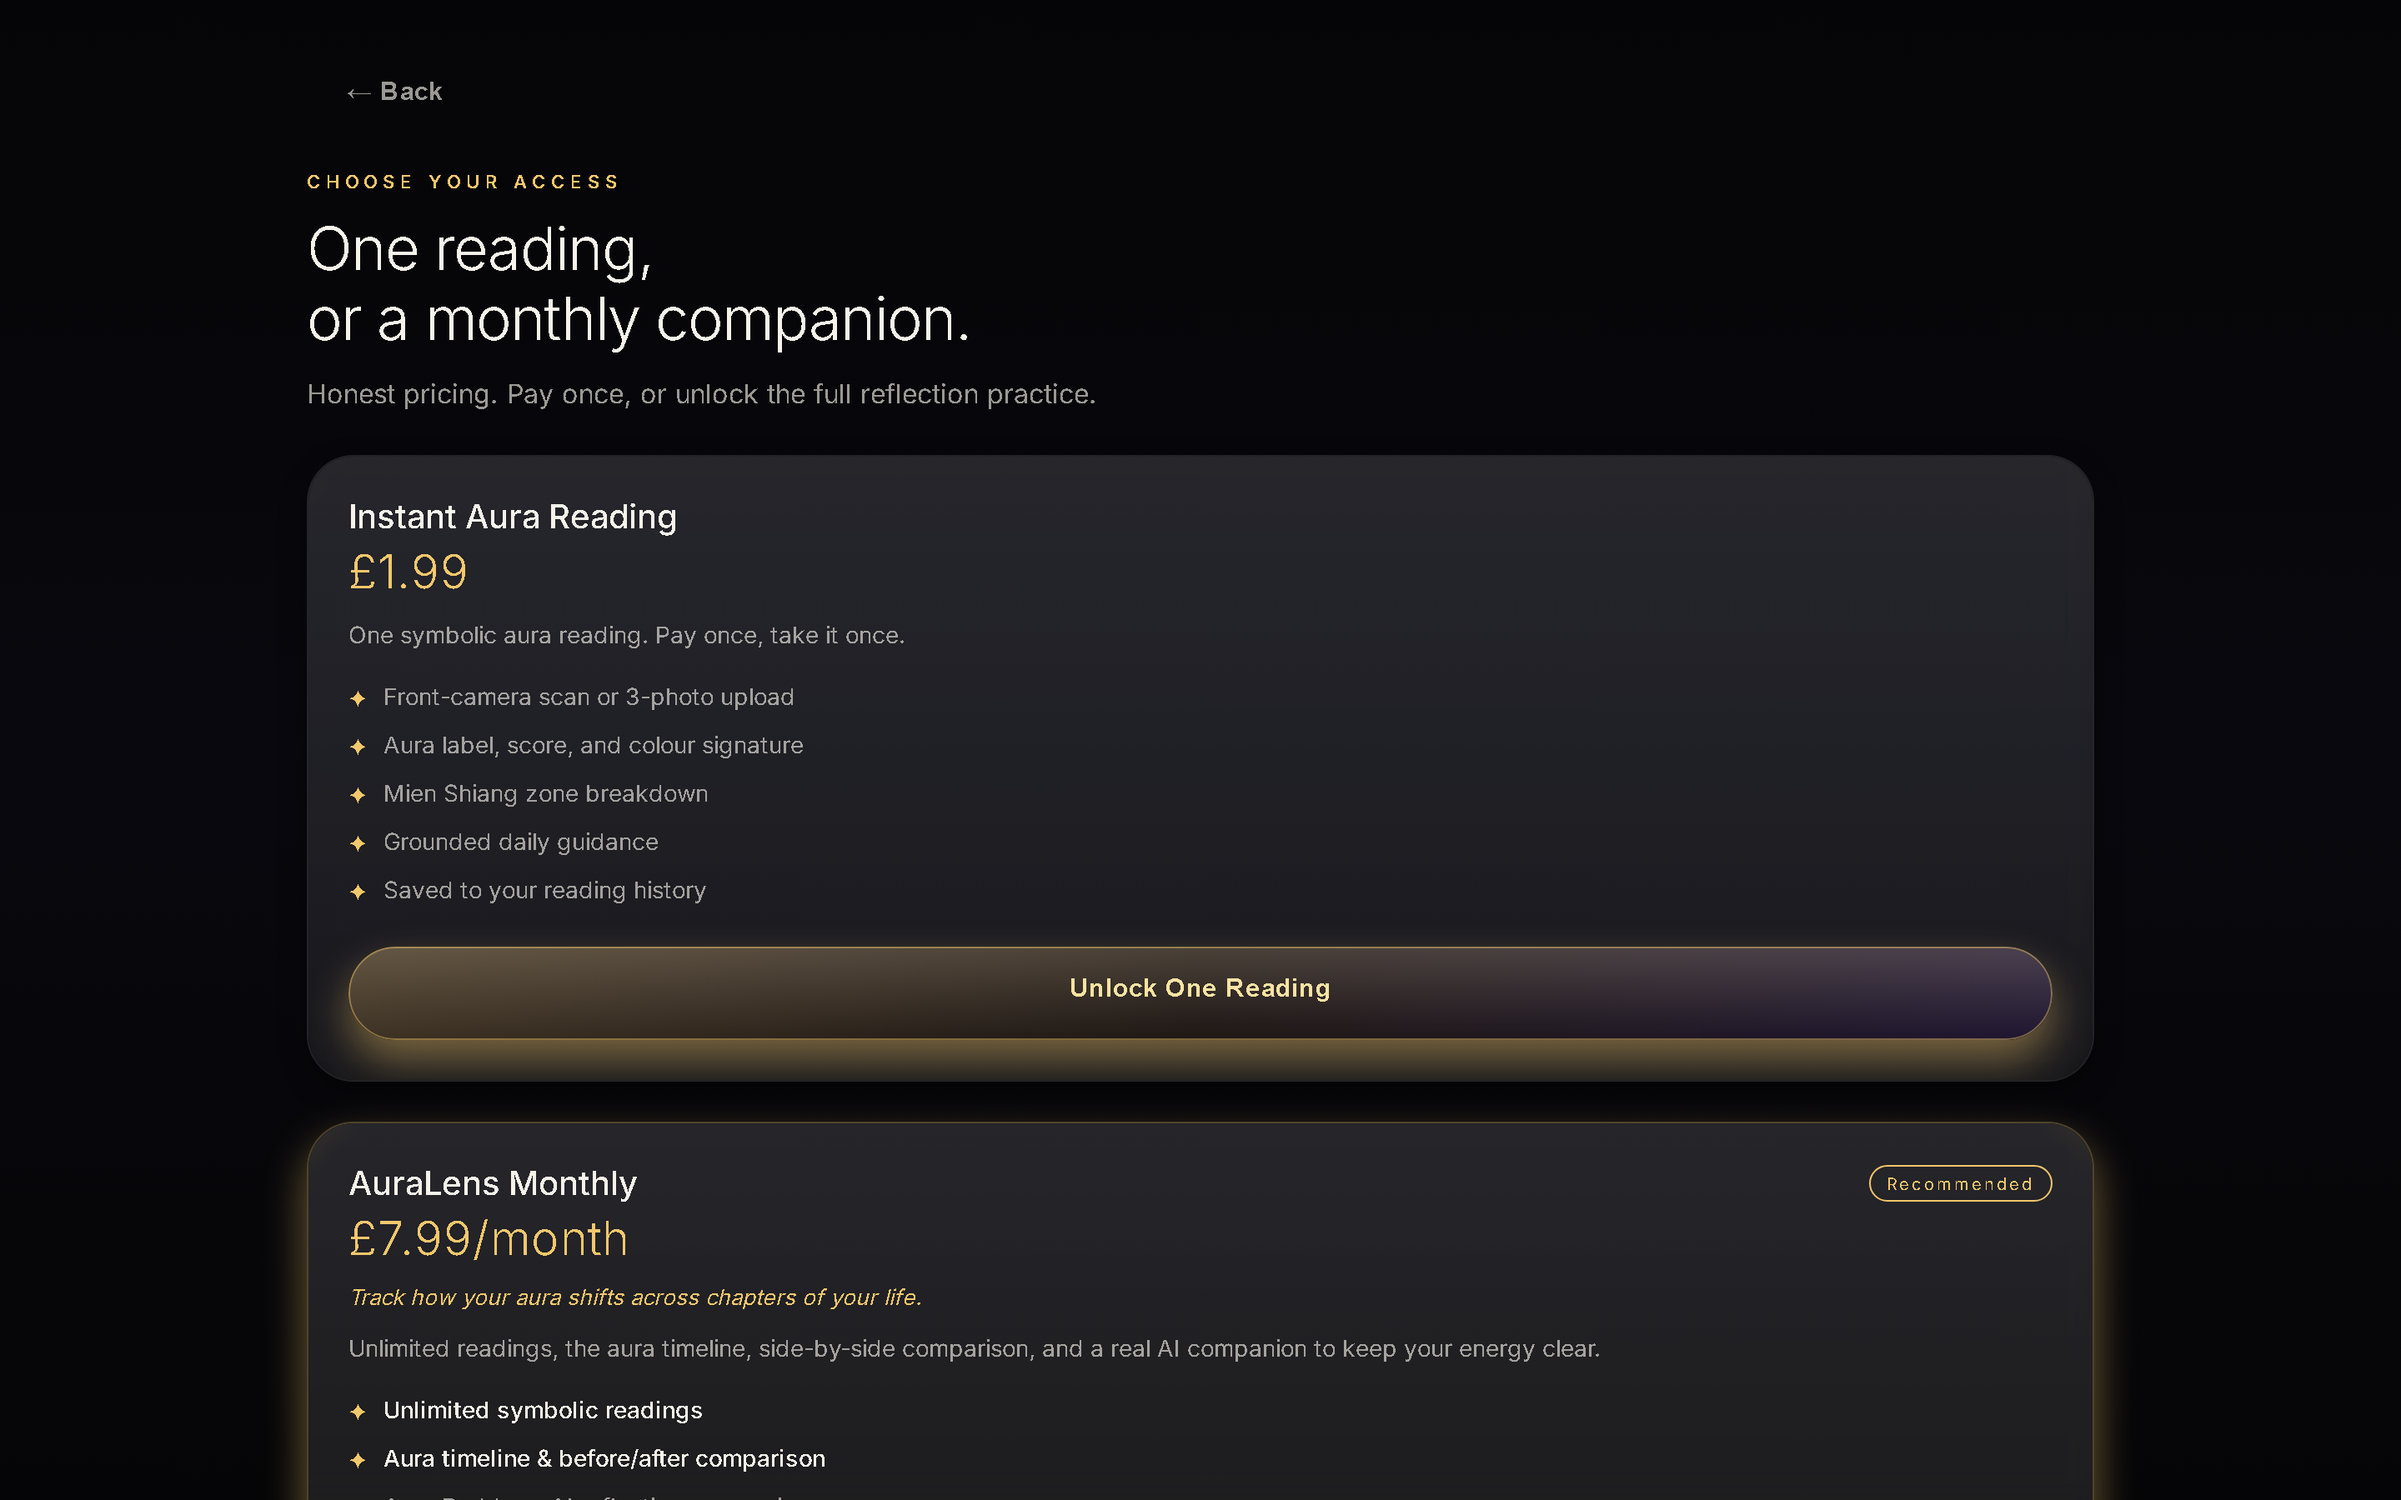
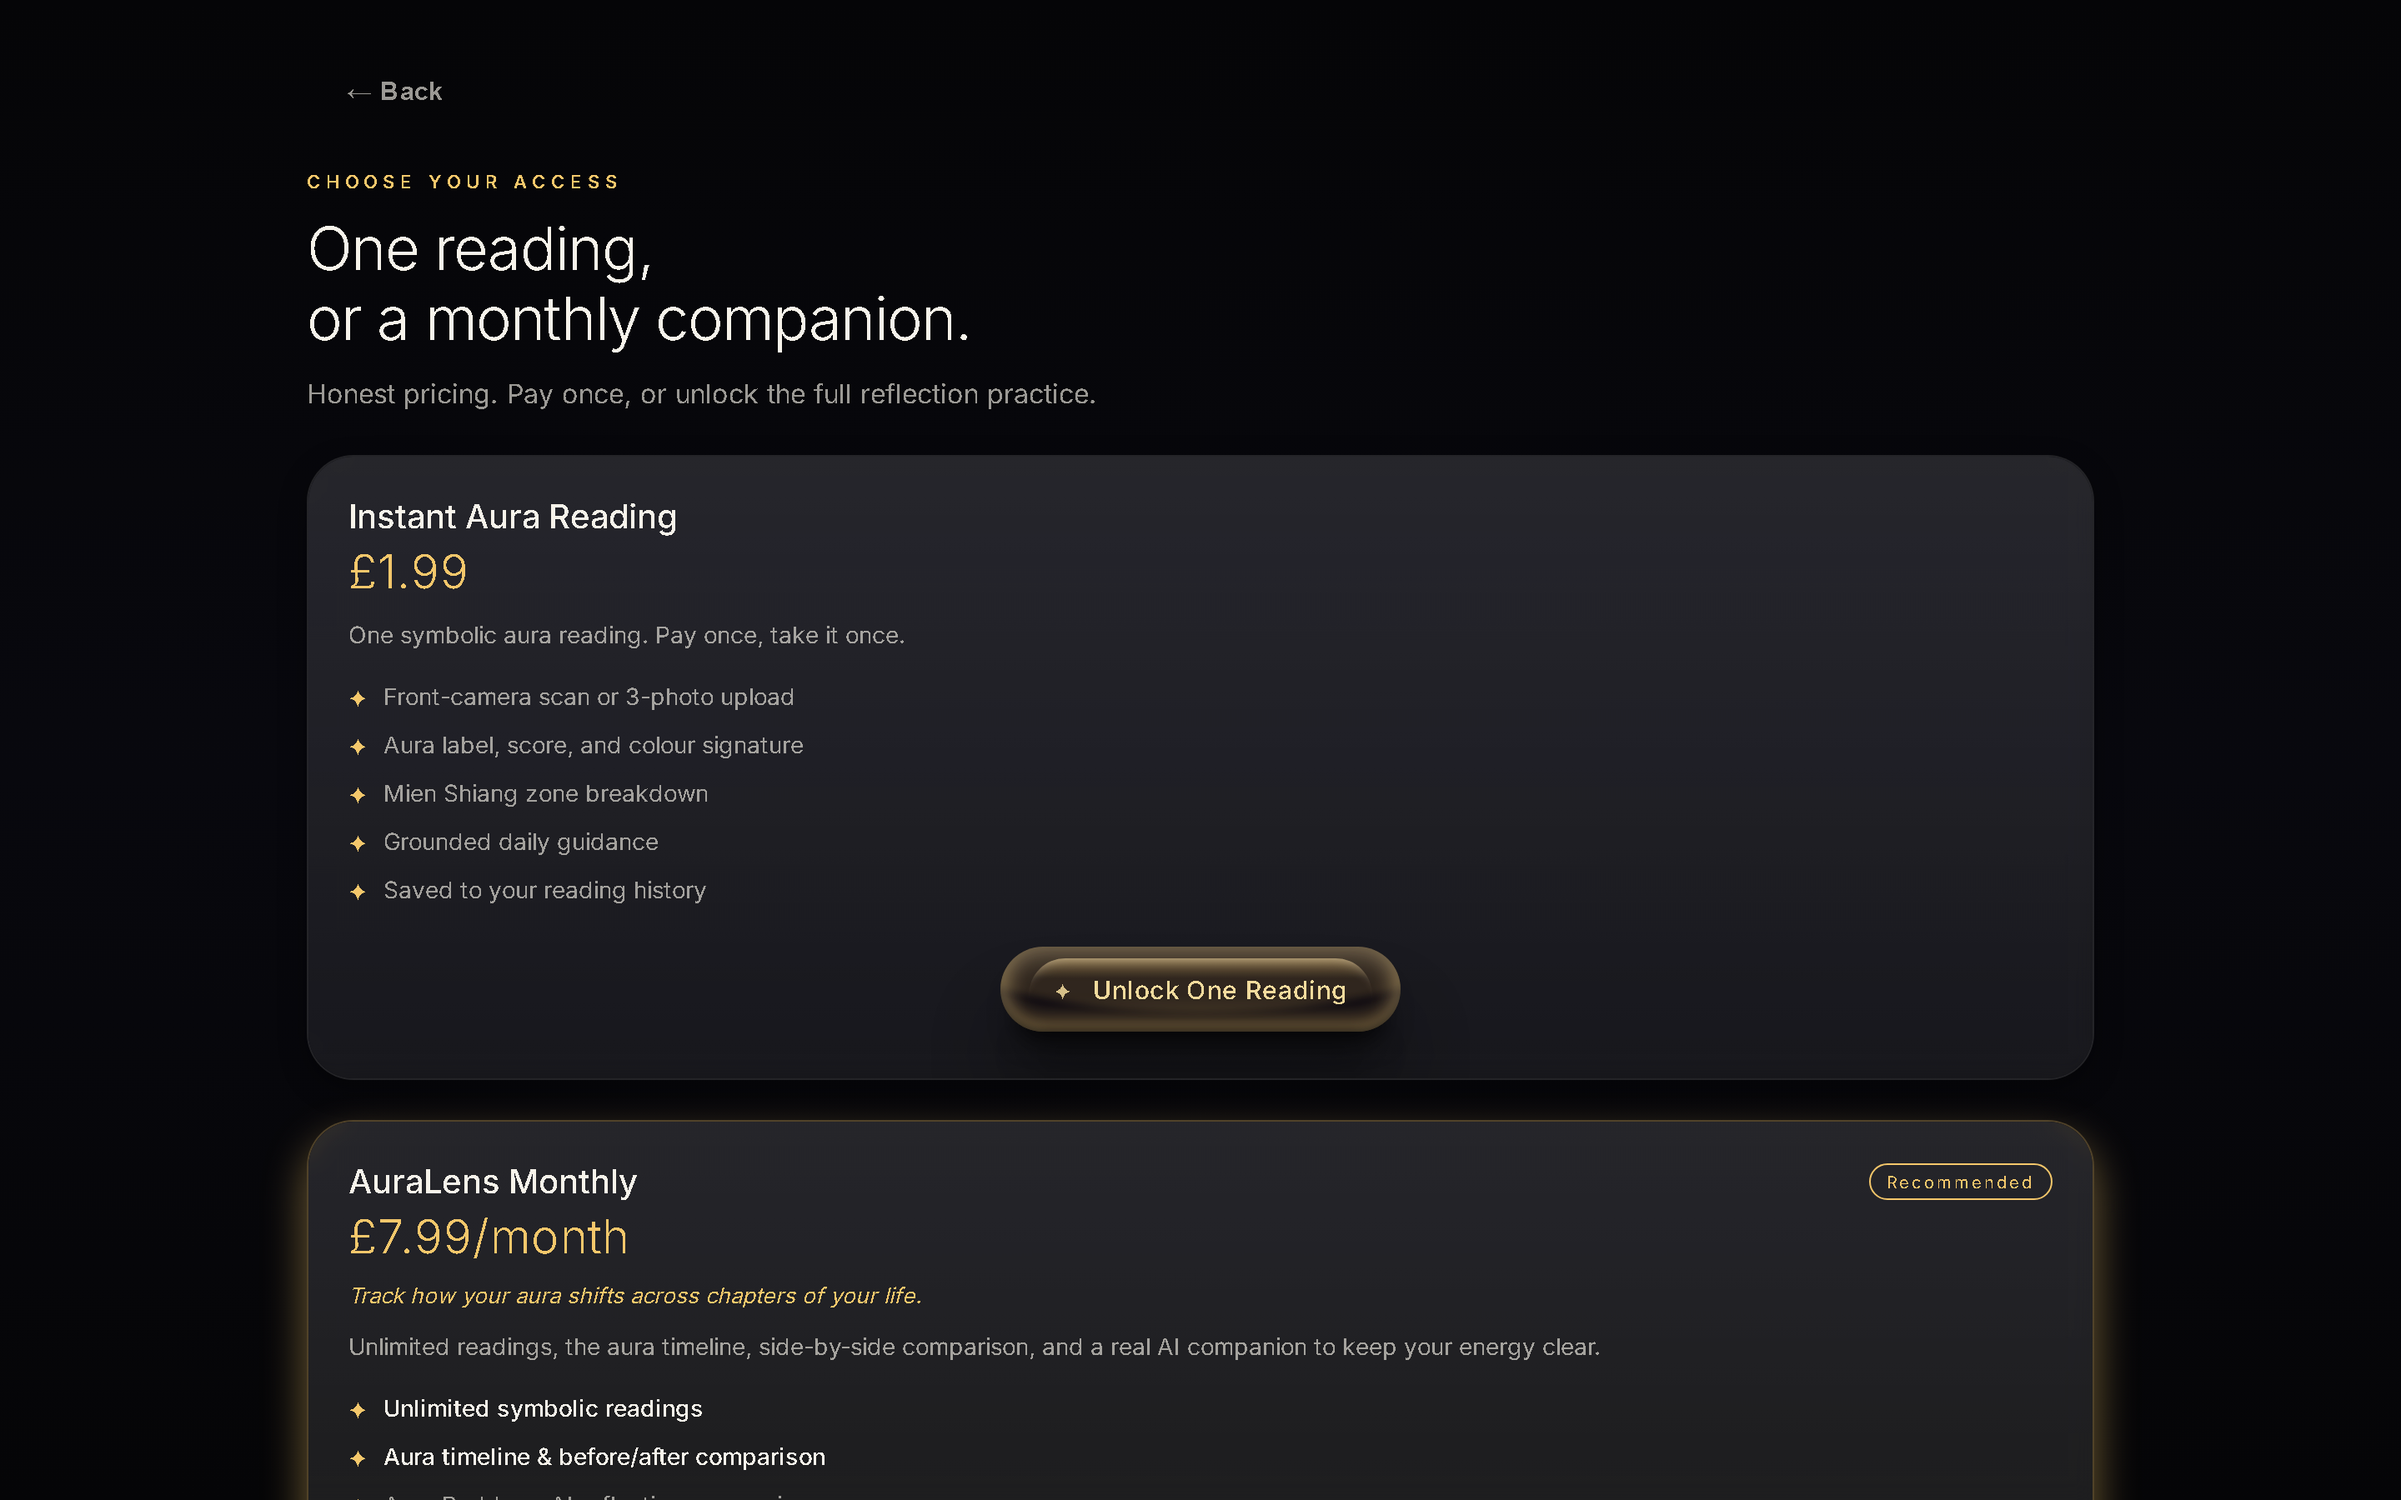
Stardust treatment on EVERY web button variant: gold/silver/ghost/danger via CSS vars

diff --git a/components/PremiumButton.tsx b/components/PremiumButton.tsx
@@ -139,20 +139,25 @@ export function PremiumButton({
     );
   };
 
-  // ── PRIMARY · WEB ───────────────────────────────────────────────────────
-  // Stardust-style real HTML <button> with proper inset shadows, pseudo-
-  // element highlights, hover specular, and active compression. Aura gold
-  // on obsidian palette. CSS lives in a one-time <style> tag (id keeps it
-  // dedupable across many button instances).
-  if (variant === 'primary' && Platform.OS === 'web') {
-    const sizePx = size === 'lg' ? '20px 38px' : size === 'sm' ? '12px 24px' : '16px 32px';
+  // ── WEB · STARDUST (every variant) ──────────────────────────────────────
+  // Single HTML <button> shape with a variant modifier class. Same depth +
+  // inset + pseudo specular for all variants — only the colour palette
+  // differs. CSS lives once in <style id="auralens-stardust-css">.
+  if (Platform.OS === 'web' && variant !== 'subtle') {
+    const sizePx = size === 'lg' ? '20px 38px' : size === 'sm' ? '12px 22px' : '16px 32px';
     const fontPx = size === 'lg' ? 18 : size === 'sm' ? 13 : 15;
+    const modifier =
+      variant === 'primary'   ? 'auralens-stardust--gold'   :
+      variant === 'secondary' ? 'auralens-stardust--silver' :
+      variant === 'ghost'     ? 'auralens-stardust--ghost'  :
+      variant === 'danger'    ? 'auralens-stardust--danger' :
+                                'auralens-stardust--silver';
+    const showGlyph = variant === 'primary';
     return (
       <>
         <AuralensStardustCSS />
-        {/* eslint-disable-next-line react/no-unknown-property */}
         {React.createElement('button' as any, {
-          className: 'auralens-stardust',
+          className: `auralens-stardust ${modifier}`,
           onClick: handlePress,
           disabled: inactive,
           'aria-label': a11y.accessibilityLabel,
@@ -167,12 +172,13 @@ export function PremiumButton({
             opacity: inactive ? 0.45 : 1,
             width: fullWidth ? '100%' : 'auto',
             display: 'inline-block',
+            margin: 0,
           },
         }, React.createElement('span', { className: 'auralens-stardust__shell' },
           React.createElement('span', { className: 'auralens-stardust__wrap' },
             React.createElement('span', { className: 'auralens-stardust__label', style: { fontSize: fontPx, padding: sizePx } },
-              React.createElement('span', { className: 'auralens-stardust__glyph', 'aria-hidden': true }, '✦'),
-              React.createElement('span', { className: 'auralens-stardust__glyph auralens-stardust__glyph--hover', 'aria-hidden': true }, '✧'),
+              showGlyph ? React.createElement('span', { className: 'auralens-stardust__glyph', 'aria-hidden': true }, '✦') : null,
+              showGlyph ? React.createElement('span', { className: 'auralens-stardust__glyph auralens-stardust__glyph--hover', 'aria-hidden': true }, '✧') : null,
               loading ? React.createElement('span', null, '…') : label,
             ),
           ),
@@ -393,19 +399,75 @@ const AURALENS_STARDUST_CSS = `
   -webkit-tap-highlight-color: transparent;
 }
 .auralens-stardust__shell {
+  /* CSS variables defaulted here, overridden per modifier */
   --bg: #0b0810;
   --ink: rgba(251, 227, 162, 0.96);
+  --hi: rgba(255, 235, 200, 0.30);
+  --core: rgba(244, 199, 107, 0.45);
+  --hi-hover: rgba(255, 235, 200, 0.42);
+  --core-hover: rgba(244, 199, 107, 0.65);
+  --halo: rgba(244, 199, 107, 0.16);
+  --halo-hover: rgba(244, 199, 107, 0.22);
+  --top-grad-1: rgba(244, 199, 107, 0.32);
   display: inline-block;
   position: relative;
   border-radius: 999px;
   background-color: var(--bg);
   transition: transform 0.2s ease, box-shadow 0.3s ease;
   box-shadow:
-    inset 0 0.35rem 0.9rem rgba(255, 235, 200, 0.30),
+    inset 0 0.35rem 0.9rem var(--hi),
     inset 0 -0.1rem 0.3rem rgba(0, 0, 0, 0.70),
-    inset 0 -0.45rem 0.9rem rgba(244, 199, 107, 0.45),
+    inset 0 -0.45rem 0.9rem var(--core),
     0 2.4rem 2.6rem rgba(0, 0, 0, 0.35),
     0 0.9rem 1rem -0.6rem rgba(0, 0, 0, 0.80);
+}
+
+/* Gold (primary) — default tokens above already match */
+
+/* Silver / cool (secondary) */
+.auralens-stardust--silver .auralens-stardust__shell {
+  --bg: #0a0a14;
+  --ink: rgba(247, 243, 234, 0.95);
+  --hi: rgba(255, 255, 255, 0.20);
+  --core: rgba(155, 108, 255, 0.32);
+  --hi-hover: rgba(255, 255, 255, 0.32);
+  --core-hover: rgba(155, 108, 255, 0.50);
+  --halo: rgba(155, 108, 255, 0.16);
+  --halo-hover: rgba(155, 108, 255, 0.24);
+  --top-grad-1: rgba(255, 255, 255, 0.22);
+}
+
+/* Ghost — quieter, less depth */
+.auralens-stardust--ghost .auralens-stardust__shell {
+  --bg: rgba(10, 10, 16, 0.55);
+  --ink: rgba(247, 243, 234, 0.85);
+  --hi: rgba(255, 255, 255, 0.10);
+  --core: rgba(155, 108, 255, 0.16);
+  --hi-hover: rgba(255, 255, 255, 0.20);
+  --core-hover: rgba(155, 108, 255, 0.28);
+  --halo: rgba(255, 255, 255, 0.06);
+  --halo-hover: rgba(255, 255, 255, 0.12);
+  --top-grad-1: rgba(255, 255, 255, 0.12);
+}
+.auralens-stardust--ghost .auralens-stardust__shell {
+  box-shadow:
+    inset 0 0.20rem 0.6rem var(--hi),
+    inset 0 -0.45rem 0.9rem var(--core),
+    0 1.4rem 1.6rem rgba(0, 0, 0, 0.30),
+    0 0.5rem 0.6rem -0.4rem rgba(0, 0, 0, 0.55);
+}
+
+/* Danger */
+.auralens-stardust--danger .auralens-stardust__shell {
+  --bg: #1a0a0a;
+  --ink: rgba(255, 220, 215, 0.96);
+  --hi: rgba(255, 220, 215, 0.30);
+  --core: rgba(229, 89, 78, 0.55);
+  --hi-hover: rgba(255, 220, 215, 0.42);
+  --core-hover: rgba(229, 89, 78, 0.75);
+  --halo: rgba(229, 89, 78, 0.16);
+  --halo-hover: rgba(229, 89, 78, 0.24);
+  --top-grad-1: rgba(229, 89, 78, 0.32);
 }
 .auralens-stardust__wrap {
   display: block;
@@ -424,17 +486,17 @@ const AURALENS_STARDUST_CSS = `
   left: -18%; right: -18%;
   bottom: 24%; top: -100%;
   border-radius: 50%;
-  background-color: rgba(244, 199, 107, 0.16);
+  background-color: var(--halo);
   filter: blur(2px);
 }
 .auralens-stardust__wrap::after {
   left: 7%; right: 7%;
   top: 14%; bottom: 40%;
   border-radius: 22px 22px 0 0;
-  box-shadow: inset 0 10px 8px -10px rgba(255, 235, 200, 0.65);
+  box-shadow: inset 0 10px 8px -10px var(--hi);
   background: linear-gradient(
     180deg,
-    rgba(244, 199, 107, 0.32) 0%,
+    var(--top-grad-1) 0%,
     rgba(0, 0, 0, 0) 50%,
     rgba(0, 0, 0, 0) 100%
   );
@@ -465,15 +527,15 @@ const AURALENS_STARDUST_CSS = `
 
 .auralens-stardust:hover .auralens-stardust__shell {
   box-shadow:
-    inset 0 0.35rem 0.6rem rgba(255, 235, 200, 0.42),
+    inset 0 0.35rem 0.6rem var(--hi-hover),
     inset 0 -0.1rem 0.3rem rgba(0, 0, 0, 0.70),
-    inset 0 -0.5rem 1.1rem rgba(244, 199, 107, 0.65),
+    inset 0 -0.5rem 1.1rem var(--core-hover),
     0 2.4rem 2.6rem rgba(0, 0, 0, 0.35),
     0 0.9rem 1rem -0.6rem rgba(0, 0, 0, 0.80);
 }
 .auralens-stardust:hover .auralens-stardust__wrap::before {
   transform: translateY(-6%);
-  background-color: rgba(244, 199, 107, 0.22);
+  background-color: var(--halo-hover);
 }
 .auralens-stardust:hover .auralens-stardust__wrap::after {
   opacity: 0.55;
